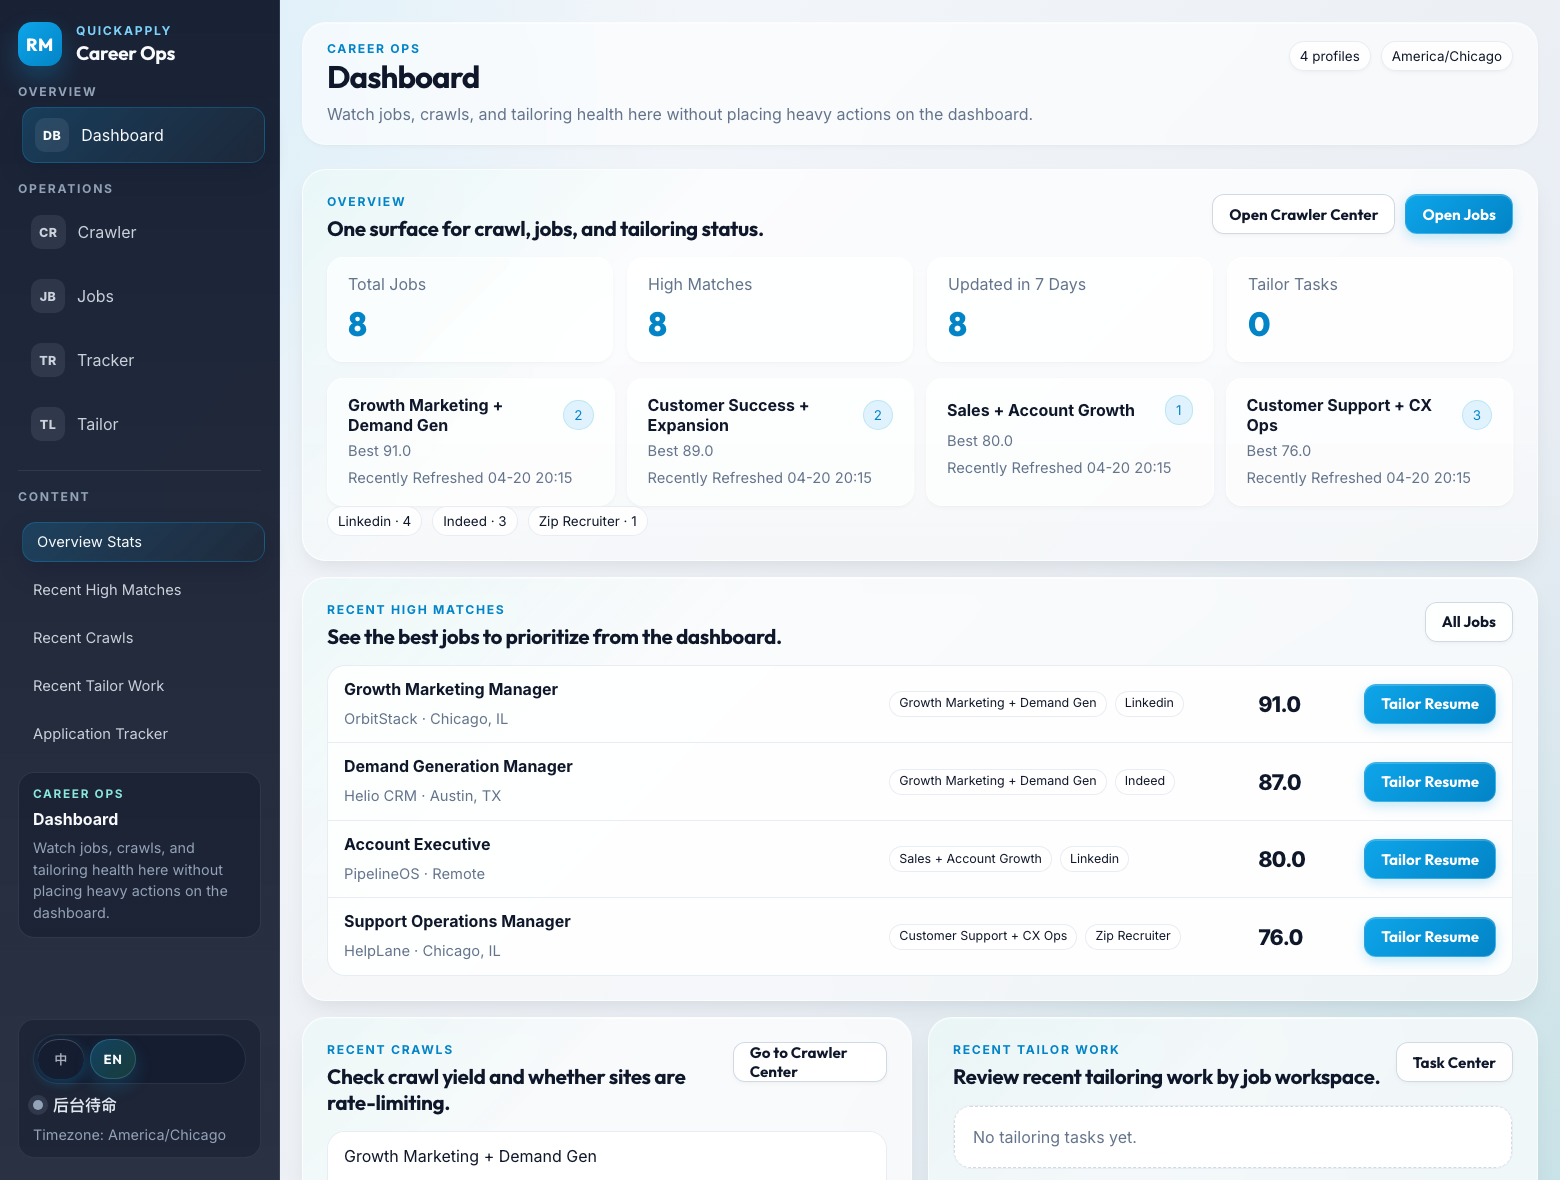
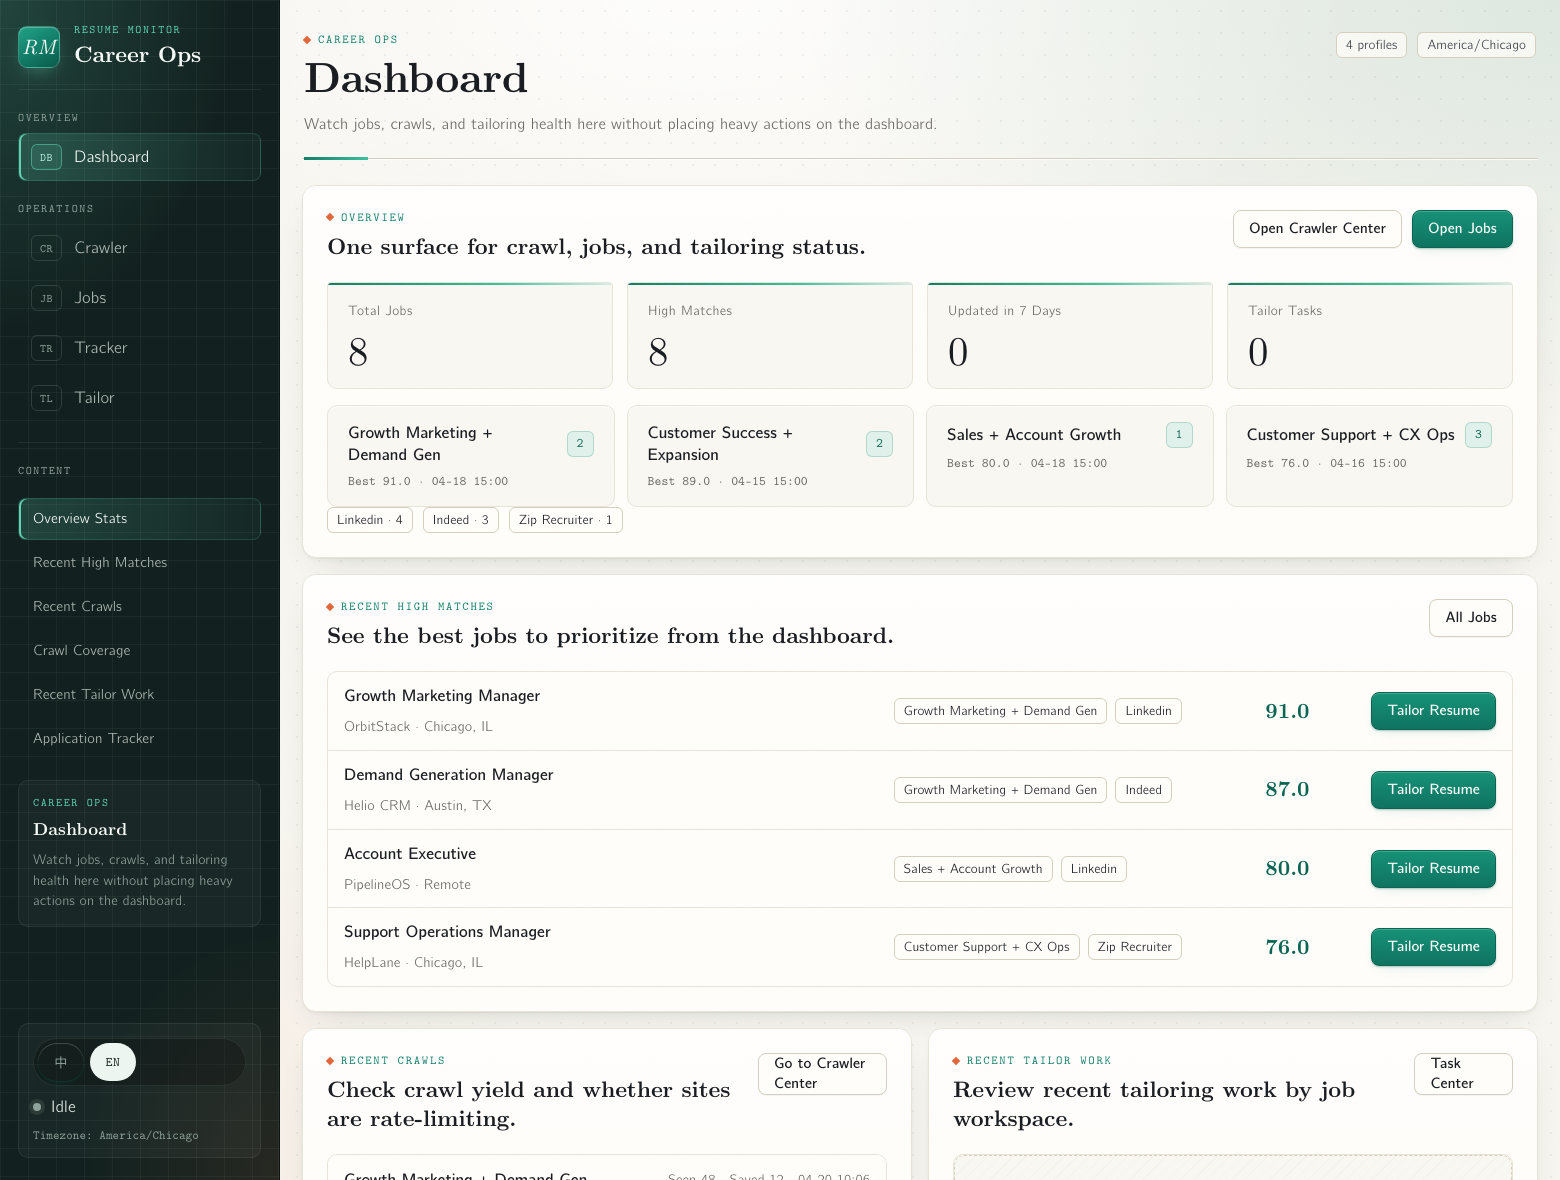
Document the new interface and refresh screenshots
- README (EN/zh-CN): add an Interface section covering the notebook
  theme layer, Computer Modern fonts and their OFL license, and the
  fully bilingual UI; update the static/ layout description.
- Regenerate the four product-tour screenshots from seeded demo data
  with the new theme in English mode.
- i18n: capitalize "This Quarter" / "Last 6 Months" to match the
  other range buttons.

diff --git a/static/i18n.js b/static/i18n.js
@@ -309,8 +309,8 @@
     { zh: "选中该职位", en: "Select this job" },
     // Tracker
     { zh: "投递", en: "Applied" },
-    { zh: "当季", en: "This quarter" },
-    { zh: "近半年", en: "Last 6 months" },
+    { zh: "当季", en: "This Quarter" },
+    { zh: "近半年", en: "Last 6 Months" },
     { zh: "指定日期", en: "Apply dates" },
     { zh: "只填起始 = 从该日到今天；只填截止 = 到该日为止。", en: "Start only = that day to today; end only = up to that day." },
     { zh: "例如：约到 phone screen / 推荐人已介绍 / 面试失败原因", en: "e.g. phone screen booked / referrer introduced / rejection reason" },

diff --git a/README.md b/README.md
@@ -85,6 +85,12 @@ The screenshots below mirror the real workflow documented in [docs/workflows.md]
   </tr>
 </table>
 
+## 🎨 Interface
+
+- **Research-notebook theme**: ivory paper, a deep teal sidebar, masthead-style page headers, and one clear teal accent. The theme lives in `static/theme.css` as a layer on top of `static/style.css`; removing its `<link>` in `templates/base.html` restores the base look.
+- **Computer Modern typography**: CMU Serif for headings and figures, CMU Bright for body text, CMU Typewriter for labels and IDs. The fonts ship in `static/fonts/` under the SIL Open Font License (`static/fonts/OFL.txt`), and a locally installed CMU family is used first.
+- **Fully bilingual UI**: switch between 中 and EN in the sidebar. English mode covers every page, including text that appears after the page loads; agent-generated messages are left as written.
+
 ## ⚡ Quick Start
 
 ### Local
@@ -141,7 +147,7 @@ data/            SQLite DB and generated workspaces
 docs/            Public docs and screenshots
 examples/        Synthetic resumes, project library, reference library, templates
 scripts/         Startup helpers and demo seeding
-static/          CSS, i18n assets, and public-facing static files
+static/          Base CSS, theme layer, CMU fonts, and i18n assets
 templates/       Jinja templates
 tests/           Route, config, scoring, and Tailor tests
 .codex/skills/   Public Tailor skills

diff --git a/README.zh-CN.md b/README.zh-CN.md
@@ -84,6 +84,12 @@ QuickApply 不是泛职位看板，而是面向“定向投递”的本地工作
   </tr>
 </table>
 
+## 🎨 界面风格
+
+- **研究笔记本主题**：象牙白纸面、深青墨色侧栏、刊头式页眉，配一种清透的青绿主色。主题单独写在 `static/theme.css`，叠加在 `static/style.css` 之上；删掉 `templates/base.html` 里引用它的那一行，就能回到基础样式。
+- **Computer Modern 字体**：标题和数字用 CMU Serif，正文用 CMU Bright，标签和编号用 CMU Typewriter。字体文件放在 `static/fonts/`，按 SIL Open Font License 分发（见 `static/fonts/OFL.txt`）；本机装了 CMU 字体时优先用本地的。
+- **完整中英双语**：在侧栏切换「中 / EN」。英文模式覆盖所有页面，包括页面加载后才出现的文字；Agent 生成的消息保持原文。
+
 ## ⚡ 快速启动
 
 ### 本地
@@ -140,7 +146,7 @@ data/            SQLite 数据库和生成工作区
 docs/            公开文档和截图
 examples/        synthetic resumes、项目库、reference 库、模板
 scripts/         启动脚本和 demo seed 脚本
-static/          样式、i18n 资源和公开静态文件
+static/          基础样式、主题层、CMU 字体和 i18n 资源
 templates/       Jinja 页面模板
 tests/           路由、配置、评分、Tailor 测试
 .codex/skills/   公开 Tailor skills
